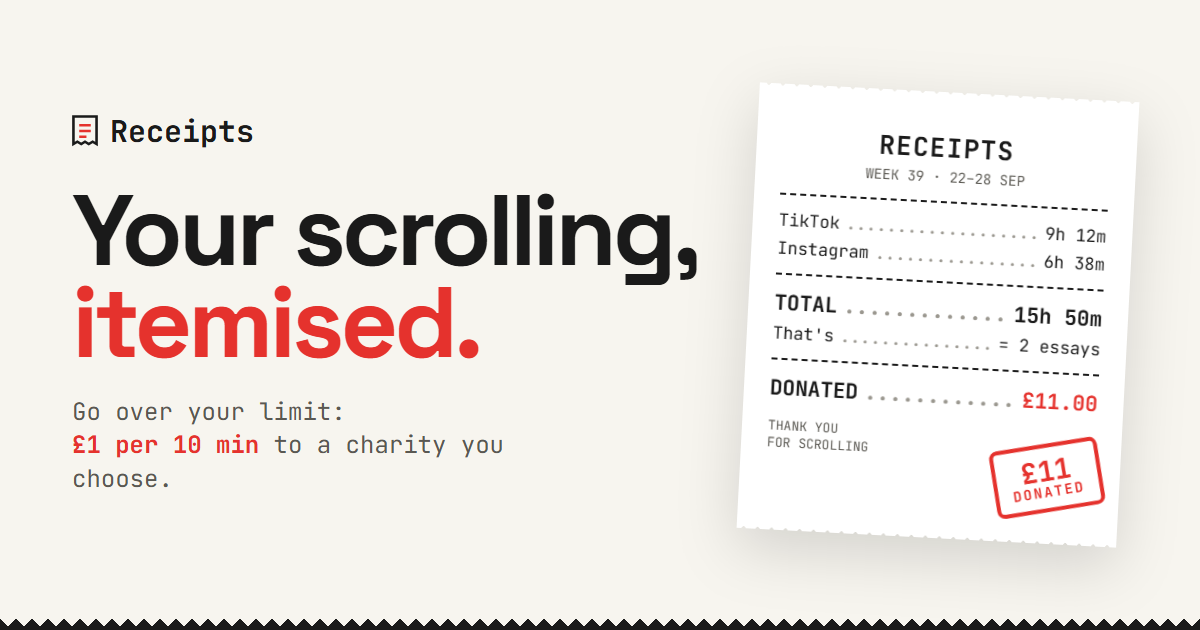
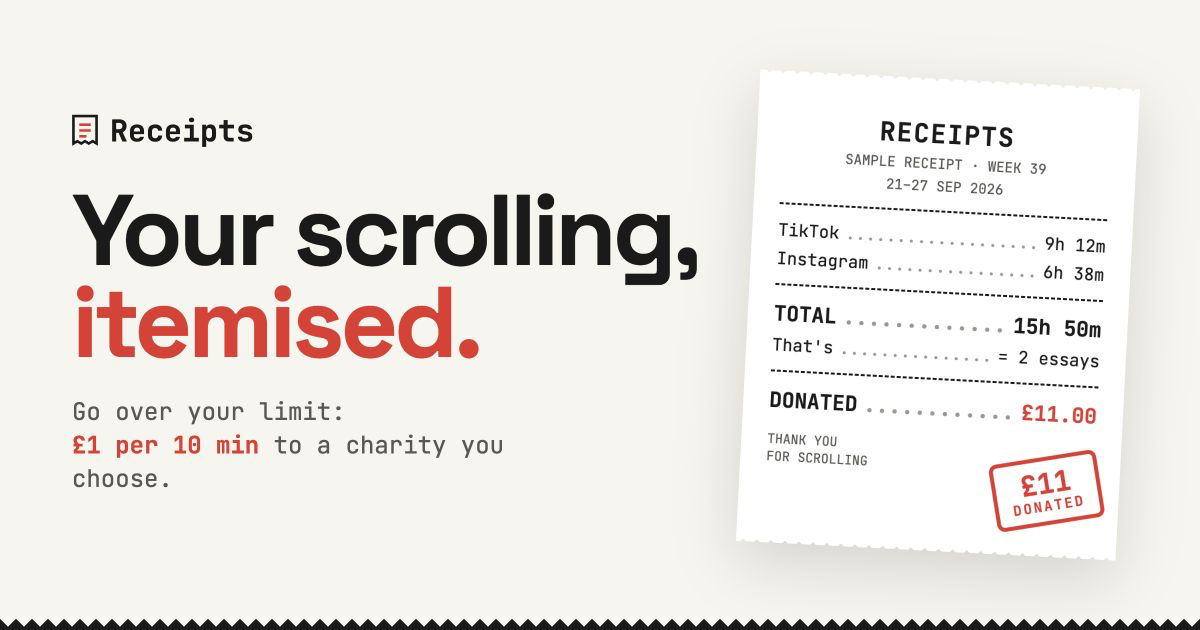
Correct and label 2026 sample receipt dates

diff --git a/demo.html b/demo.html
@@ -346,10 +346,10 @@
 
   <!-- ============ 5/6. SUNDAY RECEIPT + SHARE ============ -->
   <section class="screen tabbed" id="receipt">
-    <div class="bar"><span class="label">Sunday · Week 39</span></div>
+    <div class="bar"><span class="label">Sample · Sunday 27 September 2026</span></div>
     <h1>Your receipt</h1>
-    <div class="receipt" id="the-receipt" aria-label="Weekly receipt: 15 hours 50 minutes scrolled, £11 donated">
-      <div class="head"><b>RECEIPTS</b><span>WEEK 39 · 22–28 SEP</span></div>
+    <div class="receipt" id="the-receipt" aria-label="Sample weekly receipt, Week 39, 21–27 September 2026: 15 hours 50 minutes scrolled, £11 donated. Illustrative data.">
+      <div class="head"><b>RECEIPTS</b><span>SAMPLE RECEIPT · WEEK 39<br>21–27 SEP 2026</span></div>
       <hr>
       <div class="li"><span>TikTok</span><span class="dots"></span><span>9h 12m</span></div>
       <div class="li"><span>Instagram</span><span class="dots"></span><span>6h 38m</span></div>
@@ -368,7 +368,7 @@
     </div>
     <div class="receipt-actions">
       <button class="btn" id="share" disabled>Preparing image…</button>
-      <a class="btn ghost" id="download-receipt" download="receipts-week-39.png" hidden>Download receipt image</a>
+      <a class="btn ghost" id="download-receipt" download="receipts-sample-2026-week-39.png" hidden>Download receipt image</a>
       <p class="fineprint" id="share-status" role="status" aria-live="polite">Preparing your receipt image.</p>
     </div>
   </section>
@@ -379,7 +379,7 @@
     <h1>Flat 4B pot</h1>
     <p class="muted" style="margin:8px 0 16px">Shared limits. Every slip goes in the pot.</p>
     <div class="card pot-total">
-      <p class="label">This week</p>
+      <p class="label">Sample Week 40 · 2026</p>
       <p class="amt">£14.00</p>
       <p class="fineprint">Goes to <b>Climate</b> on Sunday · 100% donated</p>
     </div>
@@ -389,7 +389,7 @@
 
   <!-- ============ 7b. FRIEND RECEIPT ============ -->
   <section class="screen" id="friend">
-    <div class="bar"><button class="back" data-back>‹ Pot</button><span class="label">Flat 4B · Week 40</span></div>
+    <div class="bar"><button class="back" data-back>‹ Pot</button><span class="label">Sample · Week 40 · 2026</span></div>
     <h1 id="friend-title">Their receipt</h1>
     <div id="friend-receipt"></div>
     <div class="nudge-row">
@@ -423,28 +423,28 @@
       <button class="card tile tile-btn" data-tab-go="stats"><p class="label">8-week trend</p><svg id="spark" viewBox="0 0 120 34" style="width:100%;height:34px;margin-top:8px" aria-label="Weekly scrolling, trending down"></svg><p class="s">↓ 14% since week 32</p></button>
       <button class="card tile tile-btn" id="home-charity"><p class="label">Your £ goes to</p><p class="big charity-name" style="font-size:20px">Mind</p><p class="s">Tap to change</p></button>
     </div>
-    <button class="card row-link" data-tab-go="receipt"><span><span class="label">Sunday</span><br><b style="font-size:18px">Week 39 receipt is ready</b></span><span class="chev">›</span></button>
+    <button class="card row-link" data-tab-go="receipt"><span><span class="label">Sample · 27 Sep 2026</span><br><b style="font-size:18px">Week 39 receipt</b></span><span class="chev">›</span></button>
   </section>
 
   <!-- ============ STATS ============ -->
   <section class="screen tabbed" id="stats">
-    <div class="bar"><span class="label">Stats · since you started</span></div>
+    <div class="bar"><span class="label">Sample stats · 2026</span></div>
     <h1 style="margin-bottom:16px">Your time, charted</h1>
     <div class="tiles" style="margin-top:0">
-      <div class="card tile"><p class="label">Avg / day</p><p class="big">2h 16m</p><p class="s">Week 39 · limit 2h</p></div>
+      <div class="card tile"><p class="label">Avg / day</p><p class="big">2h 16m</p><p class="s">Week 39 · 2026 · limit 2h</p></div>
       <div class="card tile"><p class="label">vs week 38</p><p class="big red">↑ 7%</p><p class="s">+1h 00m. A slip.</p></div>
       <div class="card tile"><p class="label">Donated</p><p class="big">£122</p><p class="s">Across 8 weeks</p></div>
       <div class="card tile"><p class="label">Worst day</p><p class="big">Fri</p><p class="s">2h 52m · 52m over</p></div>
     </div>
     <div class="card chart-card" style="margin-top:12px">
       <h3>Hours per week</h3>
-      <p class="s">Weeks 32–39 · tap a bar</p>
+      <p class="s">Sample weeks 32–39 · 2026 · tap a bar</p>
       <svg class="chart" id="chart-weeks" role="img"></svg>
       <div class="legend"><span><i style="background:var(--ink)"></i>Within limit</span><span><i style="background:var(--red)"></i>Over limit</span><span><i class="line"></i>14h weekly limit</span></div>
     </div>
     <div class="card chart-card">
       <h3>Week 39, day by day</h3>
-      <p class="s">TikTok + Instagram · tap a bar</p>
+      <p class="s">21–27 Sep 2026 · TikTok + Instagram · tap a bar</p>
       <svg class="chart" id="chart-days" role="img"></svg>
       <div class="legend"><span><i style="background:var(--ink)"></i>Within limit</span><span><i style="background:var(--red)"></i>Over limit</span><span><i class="line"></i>2h daily limit</span></div>
     </div>
@@ -777,7 +777,9 @@
       g.fillText(value, x, baseline);
     }
     text(receipt.querySelector('.head b').textContent, 360, 116, 42, true, ink, 'center');
-    text(receipt.querySelector('.head span').textContent, 360, 156, 23, false, muted, 'center');
+    var headingLines = receipt.querySelector('.head span').innerText.split('\n');
+    headingLines.forEach(function (line, i) { text(line, 360, 156 + i * 32, 23, false, muted, 'center'); });
+    y += (headingLines.length - 1) * 32;
     Array.from(receipt.children).forEach(function (row) {
       if (row.tagName === 'HR') {
         g.strokeStyle = ink; g.lineWidth = 2; g.setLineDash([7, 6]);
@@ -837,7 +839,7 @@
         if (!blob) return failed();
         try {
           receiptURL = URL.createObjectURL(blob);
-          receiptFile = typeof File === 'function' ? new File([blob], 'receipts-week-39.png', { type: 'image/png' }) : null;
+          receiptFile = typeof File === 'function' ? new File([blob], 'receipts-sample-2026-week-39.png', { type: 'image/png' }) : null;
           downloadReceipt.href = receiptURL; downloadReceipt.hidden = false;
           var nativeShare = receiptFile && canShareReceipt(receiptFile);
           shareButton.hidden = !nativeShare; shareButton.disabled = false;
@@ -861,7 +863,7 @@
       shareStatus.textContent = 'Couldn’t open sharing. Try again or download the image instead.';
     }
     try {
-      navigator.share({ files: [receiptFile], title: 'My Receipts, week 39' }).then(function () {
+      navigator.share({ files: [receiptFile], title: 'Receipts sample — Week 39, 21–27 September 2026' }).then(function () {
         if (version !== receiptVersion) return;
         shareButton.disabled = false;
         // Resolving only confirms hand-off to the share target, not a saved image or published story.
@@ -871,7 +873,7 @@
   });
 
   // ---------- 7. Pot: tap a friend to see their receipt ----------
-  // Week 40 so far. Minutes. Over = total - 7 × daily limit; £1 per 10 min over.
+  // Illustrative full Week 40, 28 Sep–4 Oct 2026. Minutes. Over = total - 7 × daily limit; £1 per 10 min over.
   var FRIENDS = [
     { h: '@not_a_real_dan', i: 'NR', bg: '#FDE2E1', lim: 120, tt: 665, ig: 255, dodged: 3 },
     { h: '@scrolltest_sam', i: 'ST', bg: '#E7E4DA', lim: 90, tt: 220, ig: 450, dodged: 5 },
@@ -890,8 +892,8 @@
   function receiptHTML(f) {
     var total = f.tt + f.ig;
     var stamp = f.paid ? '£' + f.paid + '<small>DONATED</small>' : 'CLEAN<small>WEEK</small>';
-    return '<div class="receipt" aria-label="' + f.h + ': ' + fmt(total) + ' scrolled, £' + f.paid + ' donated">' +
-      '<div class="head"><b>RECEIPTS</b><span>' + f.h.toUpperCase() + ' · WEEK 40</span></div><hr>' +
+    return '<div class="receipt" aria-label="Sample Week 40 receipt, 28 September–4 October 2026, ' + f.h + ': ' + fmt(total) + ' scrolled, £' + f.paid + ' donated. Illustrative data.">' +
+      '<div class="head"><b>RECEIPTS</b><span>SAMPLE RECEIPT · WEEK 40<br>28 SEP–4 OCT 2026<br>' + f.h.toUpperCase() + '</span></div><hr>' +
       li('TikTok', fmt(f.tt)) + li('Instagram', fmt(f.ig)) + '<hr>' +
       li('TOTAL', fmt(total), 'big') + li('Daily limit', fmt(f.lim), 'small') + li('Over limit', f.over ? fmt(f.over) : '0m', 'small') + '<hr>' +
       li('That\'s', '= ' + Math.max(1, Math.floor(total / 360)) + ' essay' + (total >= 720 ? 's' : ''), 'small') +
@@ -973,18 +975,18 @@
   function renderStats() {
     limitBars($('chart-weeks'), WEEKS, 840, 1200, 240, function (d) {
       var o = d.total - 840;
-      return '<b>Week ' + d.label.slice(1) + '</b> · ' + hm(d.total) + '<br>' + (o > 0 ? hm(o) + ' over → £' + Math.floor(o / 10) : 'Under limit');
+      return '<b>Sample week ' + d.label.slice(1) + ' · 2026</b> · ' + hm(d.total) + '<br>' + (o > 0 ? hm(o) + ' over → £' + Math.floor(o / 10) : 'Under limit');
     });
-    $('chart-weeks').setAttribute('aria-label', 'Hours scrolled per week, weeks 32 to 39: ' + WEEKS.map(function (w) { return w.label + ' ' + hm(w.total); }).join(', '));
+    $('chart-weeks').setAttribute('aria-label', 'Sample hours scrolled per week, weeks 32 to 39 of 2026: ' + WEEKS.map(function (w) { return w.label + ' ' + hm(w.total); }).join(', '));
     limitBars($('chart-days'), DAYS, 120, 180, 60, function (d) {
       var o = d.total - 120;
       return '<b>' + d.day + '</b> · ' + hm(d.total) + (o > 0 ? ' · <span style="color:#FF8A85">' + o + 'm over</span>' : '') + '<br>TikTok ' + hm(d.tt) + ' · Insta ' + hm(d.ig);
     });
-    $('chart-days').setAttribute('aria-label', 'Week 39 by day: ' + DAYS.map(function (d) { return d.day + ' ' + hm(d.total); }).join(', '));
+    $('chart-days').setAttribute('aria-label', 'Sample Week 39 by day, 21–27 September 2026: ' + DAYS.map(function (d) { return d.day + ' ' + hm(d.total); }).join(', '));
 
     var svg = $('chart-charity'), W = 320, rowH = 30, H = GIVEN.length * rowH, L = 108, max = GIVEN[0][1];
     svg.innerHTML = ''; svg.setAttribute('viewBox', '0 0 ' + W + ' ' + H);
-    svg.setAttribute('aria-label', 'Donations by charity: ' + GIVEN.map(function (g) { return g[0] + ' £' + g[1]; }).join(', '));
+    svg.setAttribute('aria-label', 'Sample donations by charity: ' + GIVEN.map(function (g) { return g[0] + ' £' + g[1]; }).join(', '));
     GIVEN.forEach(function (g, i) {
       var yy = i * rowH + 6, w = (W - L - 40) * g[1] / max;
       el('text', { x: 0, y: yy + 12, style: 'fill:var(--ink);font-size:11px' }, svg).textContent = g[0];

diff --git a/index.html b/index.html
@@ -16,7 +16,7 @@
 <meta property="og:image" content="https://canva-hackathon-smoky.vercel.app/og.png">
 <meta property="og:image:width" content="1200">
 <meta property="og:image:height" content="630">
-<meta property="og:image:alt" content="A Receipts weekly receipt: 15h 50m scrolled, £11 donated.">
+<meta property="og:image:alt" content="Sample Receipts receipt, Week 39, 21–27 September 2026: 15h 50m scrolled, £11 donated. Illustrative data.">
 <meta name="twitter:card" content="summary_large_image">
 <link rel="preconnect" href="https://fonts.googleapis.com">
 <link rel="preconnect" href="https://fonts.gstatic.com" crossorigin>
@@ -262,8 +262,8 @@
     </div>
 
     <!-- hero receipt: prints line by line on load -->
-    <div class="receipt printing" aria-label="Example weekly receipt: 15 hours 50 minutes scrolled, £11 donated">
-      <div class="head"><b>RECEIPTS</b><span>WEEK 39 · 22–28 SEP</span></div>
+    <div class="receipt printing" aria-label="Sample weekly receipt, Week 39, 21–27 September 2026: 15 hours 50 minutes scrolled, £11 donated. Illustrative data.">
+      <div class="head"><b>RECEIPTS</b><span>SAMPLE RECEIPT · WEEK 39<br>21–27 SEP 2026</span></div>
       <hr>
       <div class="li"><span>TikTok</span><span class="dots"></span><span>9h 12m</span></div>
       <div class="li"><span>Instagram</span><span class="dots"></span><span>6h 38m</span></div>
@@ -338,16 +338,16 @@
 <section class="closeup">
   <div class="wrap">
     <div class="grid">
-      <div class="phone" aria-label="The Weekly Receipt on a phone, with a Share to story button">
+      <div class="phone" aria-label="Sample Week 40 receipt, 28 September–4 October 2026: an illustrative improvement on Week 39, with a Share to story button">
         <div class="screen">
           <div class="receipt">
-            <div class="head"><b>RECEIPTS</b><span>WEEK 40 · 29 SEP–5 OCT</span></div>
+            <div class="head"><b>RECEIPTS</b><span>SAMPLE RECEIPT · WEEK 40<br>28 SEP–4 OCT 2026</span></div>
             <hr>
             <div class="li"><span>TikTok</span><span class="dots"></span><span>5h 41m</span></div>
             <div class="li"><span>Instagram</span><span class="dots"></span><span>4h 09m</span></div>
             <hr>
             <div class="li big"><span>TOTAL</span><span class="dots"></span><span>9h 50m</span></div>
-            <div class="li small"><span>vs last week</span><span class="dots"></span><span class="red">−6h 00m</span></div>
+            <div class="li small"><span>vs Week 39</span><span class="dots"></span><span class="red">−6h 00m</span></div>
             <div class="li small"><span>That's</span><span class="dots"></span><span>= 1 essay</span></div>
             <hr>
             <div class="li big"><span>DONATED</span><span class="dots"></span><span class="red">£3.00</span></div>

diff --git a/og-card.html b/og-card.html
@@ -45,7 +45,7 @@
     <p class="sub">Go over your limit: <b>£1 per 10 min</b> to a charity you choose.</p>
   </div>
   <div class="receipt">
-    <div class="head"><b>RECEIPTS</b><span>WEEK 39 · 22–28 SEP</span></div>
+    <div class="head"><b>RECEIPTS</b><span>SAMPLE RECEIPT · WEEK 39<br>21–27 SEP 2026</span></div>
     <hr>
     <div class="li"><span>TikTok</span><span class="dots"></span><span>9h 12m</span></div>
     <div class="li"><span>Instagram</span><span class="dots"></span><span>6h 38m</span></div>

diff --git a/HANDOVER.md b/HANDOVER.md
@@ -28,7 +28,7 @@ Limits: Google doesn't let the page read the reply, so the page can only report 
 
 ## Assumptions I made (change any of these)
 - **Problem stat:** I didn't use an attributed statistic. The page shows arithmetic: 2h/day × 365 ≈ 30 days a year, labelled "Just maths, not a survey".
-- **Sample receipt numbers:** 15h 50m against a 2h/day limit gives 1h 50m over, which is £11 donated. "Dodged £6" means money you would have paid but didn't, because you closed the app on time. Week 40 in the phone mock shows an improving week, to tell a progress story.
+- **Sample receipt convention:** Week 39 is the baseline example, **21–27 Sep 2026**: 15h 50m against a 2h/day limit gives 1h 50m over and an illustrative £11 donation. "Dodged £6" illustrates money you would have avoided paying by closing the app on time. Week 40 is the following sample week, **28 Sep–4 Oct 2026**: the landing-page phone mock illustrates 9h 50m and £3 donated, a hypothetical 6h reduction. Its friend-pot receipts are separate full-week examples. All receipts, exported receipt images and sample stats are illustrative, not real tracking, real donations or evidence of improvement.
 - **"Capped daily, so a bad night never becomes a bad month"** in Stakes mode: I added this to keep the tone kind. It's a product decision, so remove it if the team disagrees.
 - **"STUDENT PRICE"** tag on Pro, and **"Launching on campus soon"** above the final CTA.
 - **1,247 queued** is a demo counter. There are no testimonials.
@@ -85,7 +85,7 @@ Each one is tagged `<!-- COPY: id -->` in `index.html`.
 - This is a clickable prototype, and all of its data is fake and lives only in the page. The secret trigger is to tap the logo on Today 3 times, or long-press it. Each trigger adds 10 min over and charges £1, up to the £5/day cap.
 - Tabs: Today · Receipt · **Home** (middle, where "Start tracking" lands) · **Stats** · Pot. The secret trigger works on the Home logo too.
 - **Charity picker:** when you go over with "Ask me each time" on (Limits screen), a sheet asks which charity gets that £1. Dismissing it sends the £1 to your default charity. The default is set from Limits or the Home tile. The charities (Mind, YoungMinds, Samaritans, BookTrust, Teach First, Woodland Trust, ClientEarth) are **examples, not partners**, and the page says so. Swap them for the real partners once those are agreed.
-- **Pot:** tap anyone to see their week-40 receipt, with Nudge/Cheer buttons that only show a toast. The numbers add up to the £14 pot.
-- **Stats:** weekly hours for weeks 32–39 and week 39 by day, with the time within the limit in ink and the time over it in red. There's also a breakdown of donations by charity. Tap a bar for details. The week 39 by-day figures add up to the Sunday receipt (15h 50m, 1h 50m over, £11).
+- **Pot:** tap anyone to see their Week 40 sample receipt (**28 Sep–4 Oct 2026**), with Nudge/Cheer buttons that only show a toast. These are illustrative full-week examples, rather than a "so far" total, and are separate from the landing-page phone mock. The numbers add up to the sample £14 pot; no donations are made.
+- **Stats:** illustrative weekly hours for weeks 32–39 of 2026 and Week 39 (**21–27 Sep 2026**) by day, with the time within the limit in ink and the time over it in red. There's also an illustrative breakdown of donations by charity. Tap a bar for details. The Week 39 by-day figures add up to the sample Sunday receipt (15h 50m, 1h 50m over, £11); none of these figures represents real tracking or donations.
 - The `Try the demo →` link in `index.html` points to the relative path `demo.html`. Once both are hosted, change it to the demo's full URL. A relative link won't resolve from a Canva-published page.
 - To add it to the home screen, it must be served over https (Canva Code publish, Netlify Drop or GitHub Pages). On iOS, use Safari → Share → Add to Home Screen. The icon is drawn as a PNG at load time; that should work, but I haven't tested it on a real iPhone. Android needs a web manifest for true full-screen, and I didn't add one.
